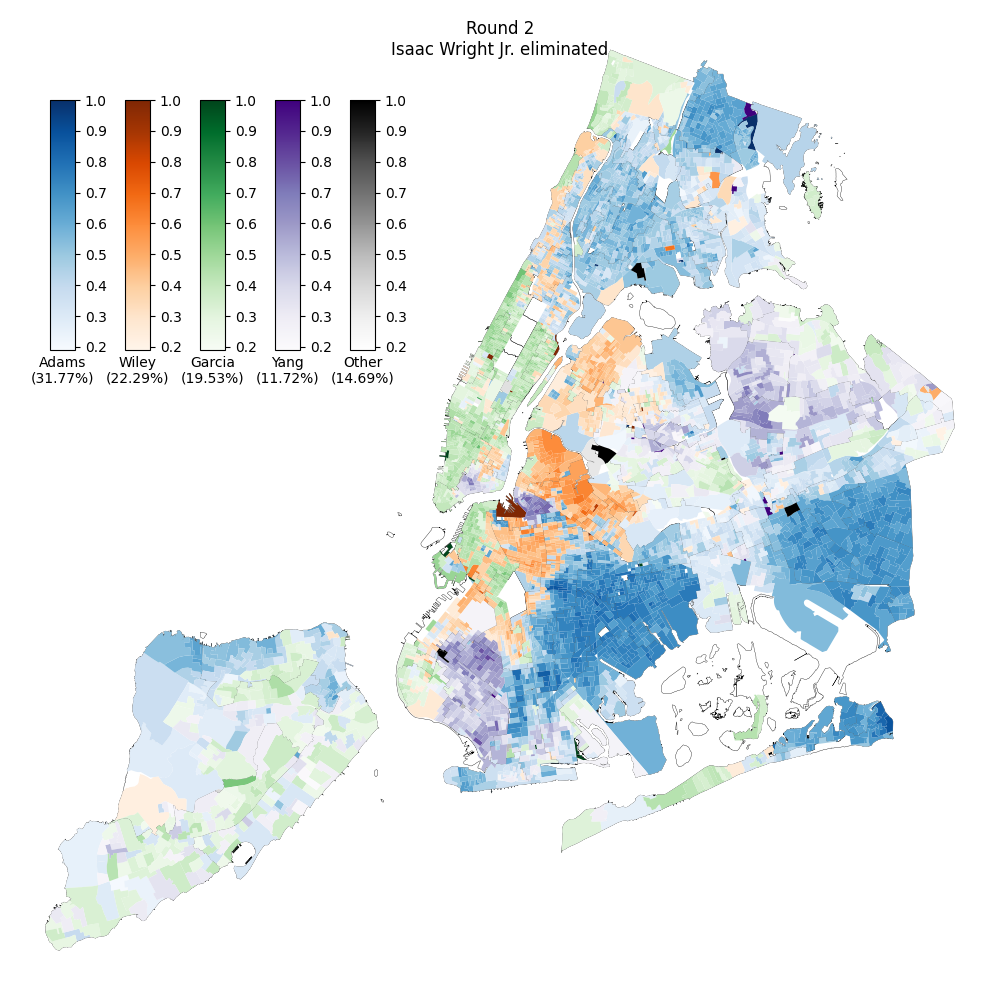
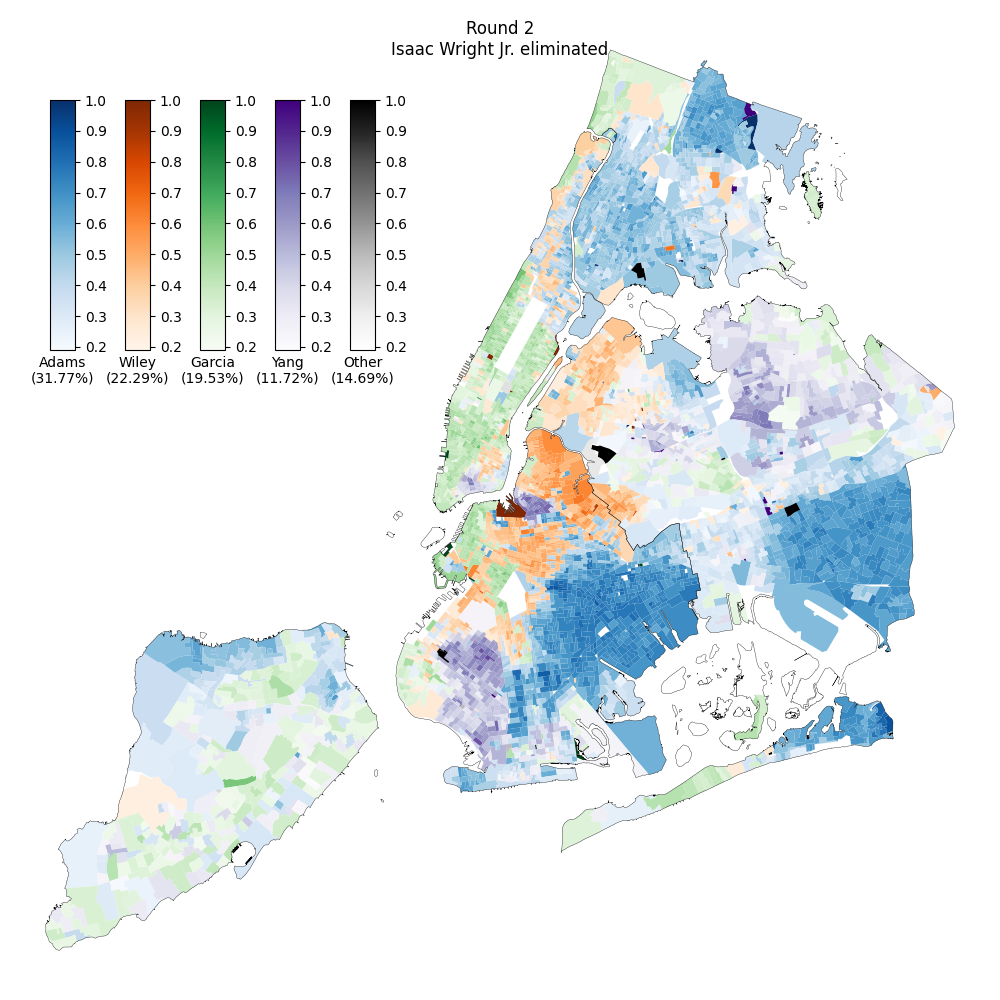
Overlay borough shapefile instead of AD

diff --git a/nyc_ed_rcv.py b/nyc_ed_rcv.py
@@ -50,7 +50,7 @@ for ad_n in range(23, 88):
 
 nyc_ed = geopandas.read_file('nyed_21b/nyed.shp')
 nyc_ed.rename(nyc_ed.iloc[:, 0], inplace=True)
-nyc_ad = geopandas.read_file('nyad_21b/nyad.shp')
+nyc_bb = geopandas.read_file('nybb_21b/nybb.shp')
 
 
 number_rounds = max([len(v) for v in round_votes_gained.values()])
@@ -73,7 +73,6 @@ for round_number in range(number_rounds):
 
     plt.clf()
     fig, ax = plt.subplots(figsize=(10, 10))
-    nyc_ad.plot(ax=ax, legend=False, facecolor="none", edgecolor="0.0", linewidth=0.25)
     ax.axis("off")
     fig.suptitle(f'Round {round_number+1}\n{", ".join(eliminated)} eliminated')
     total_round_votes = all_eds.sum().sum()
@@ -91,5 +90,6 @@ for round_number in range(number_rounds):
         round_map[round_map.winning_party == party].plot(column='margin', cmap=color_map[party_label],
                                             legend=True, ax=ax, cax=cax, vmin=0.19, vmax=1.0, legend_kwds={'orientation': 'vertical'})
 
+    nyc_bb.plot(ax=ax, legend=False, facecolor="none", edgecolor="0.0", linewidth=0.25)
     fig.subplots_adjust(0.0, 0.0, 1, 1)
     plt.savefig(f'nyc_rcv_{round_number+1}.png')
